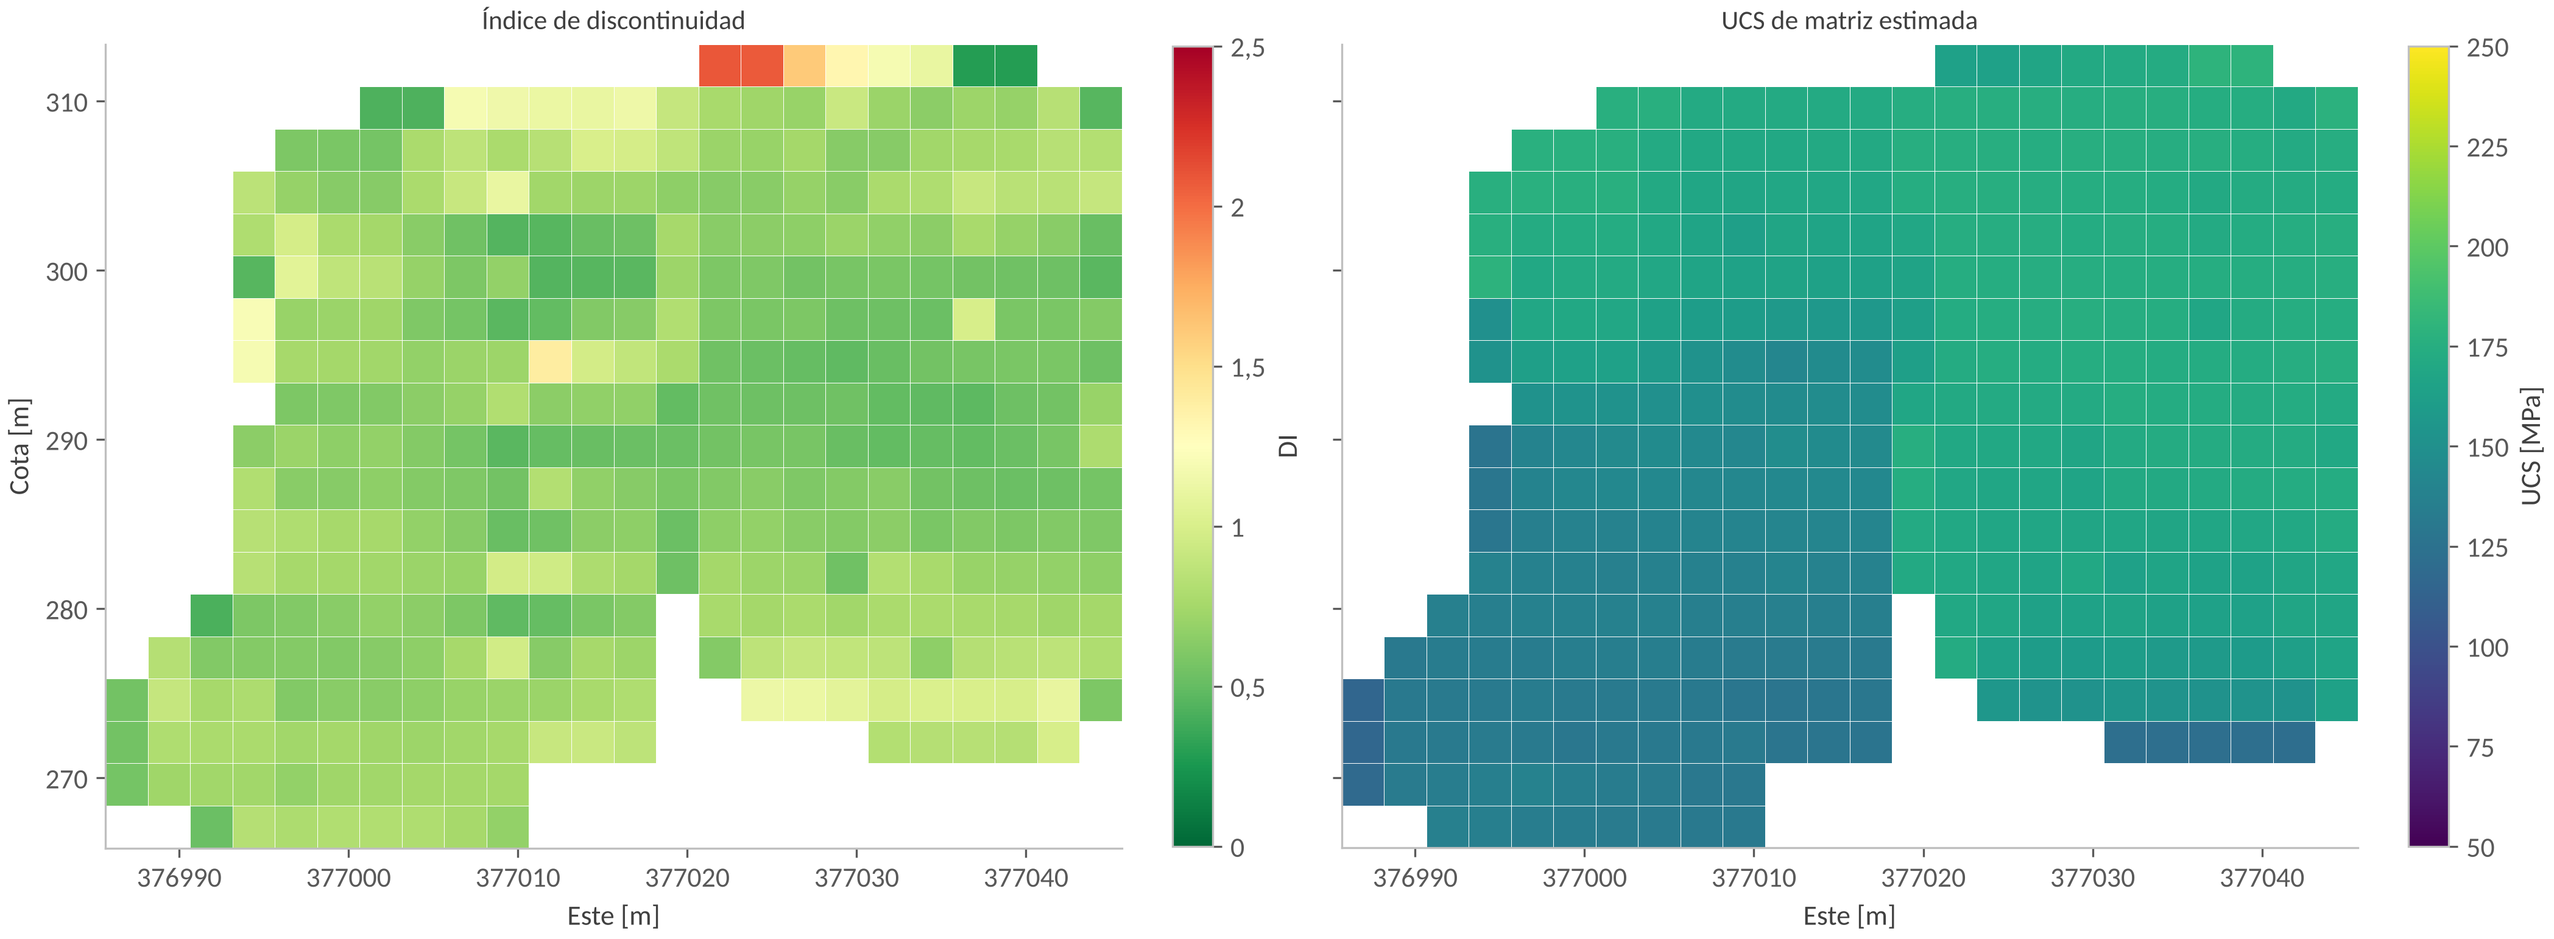
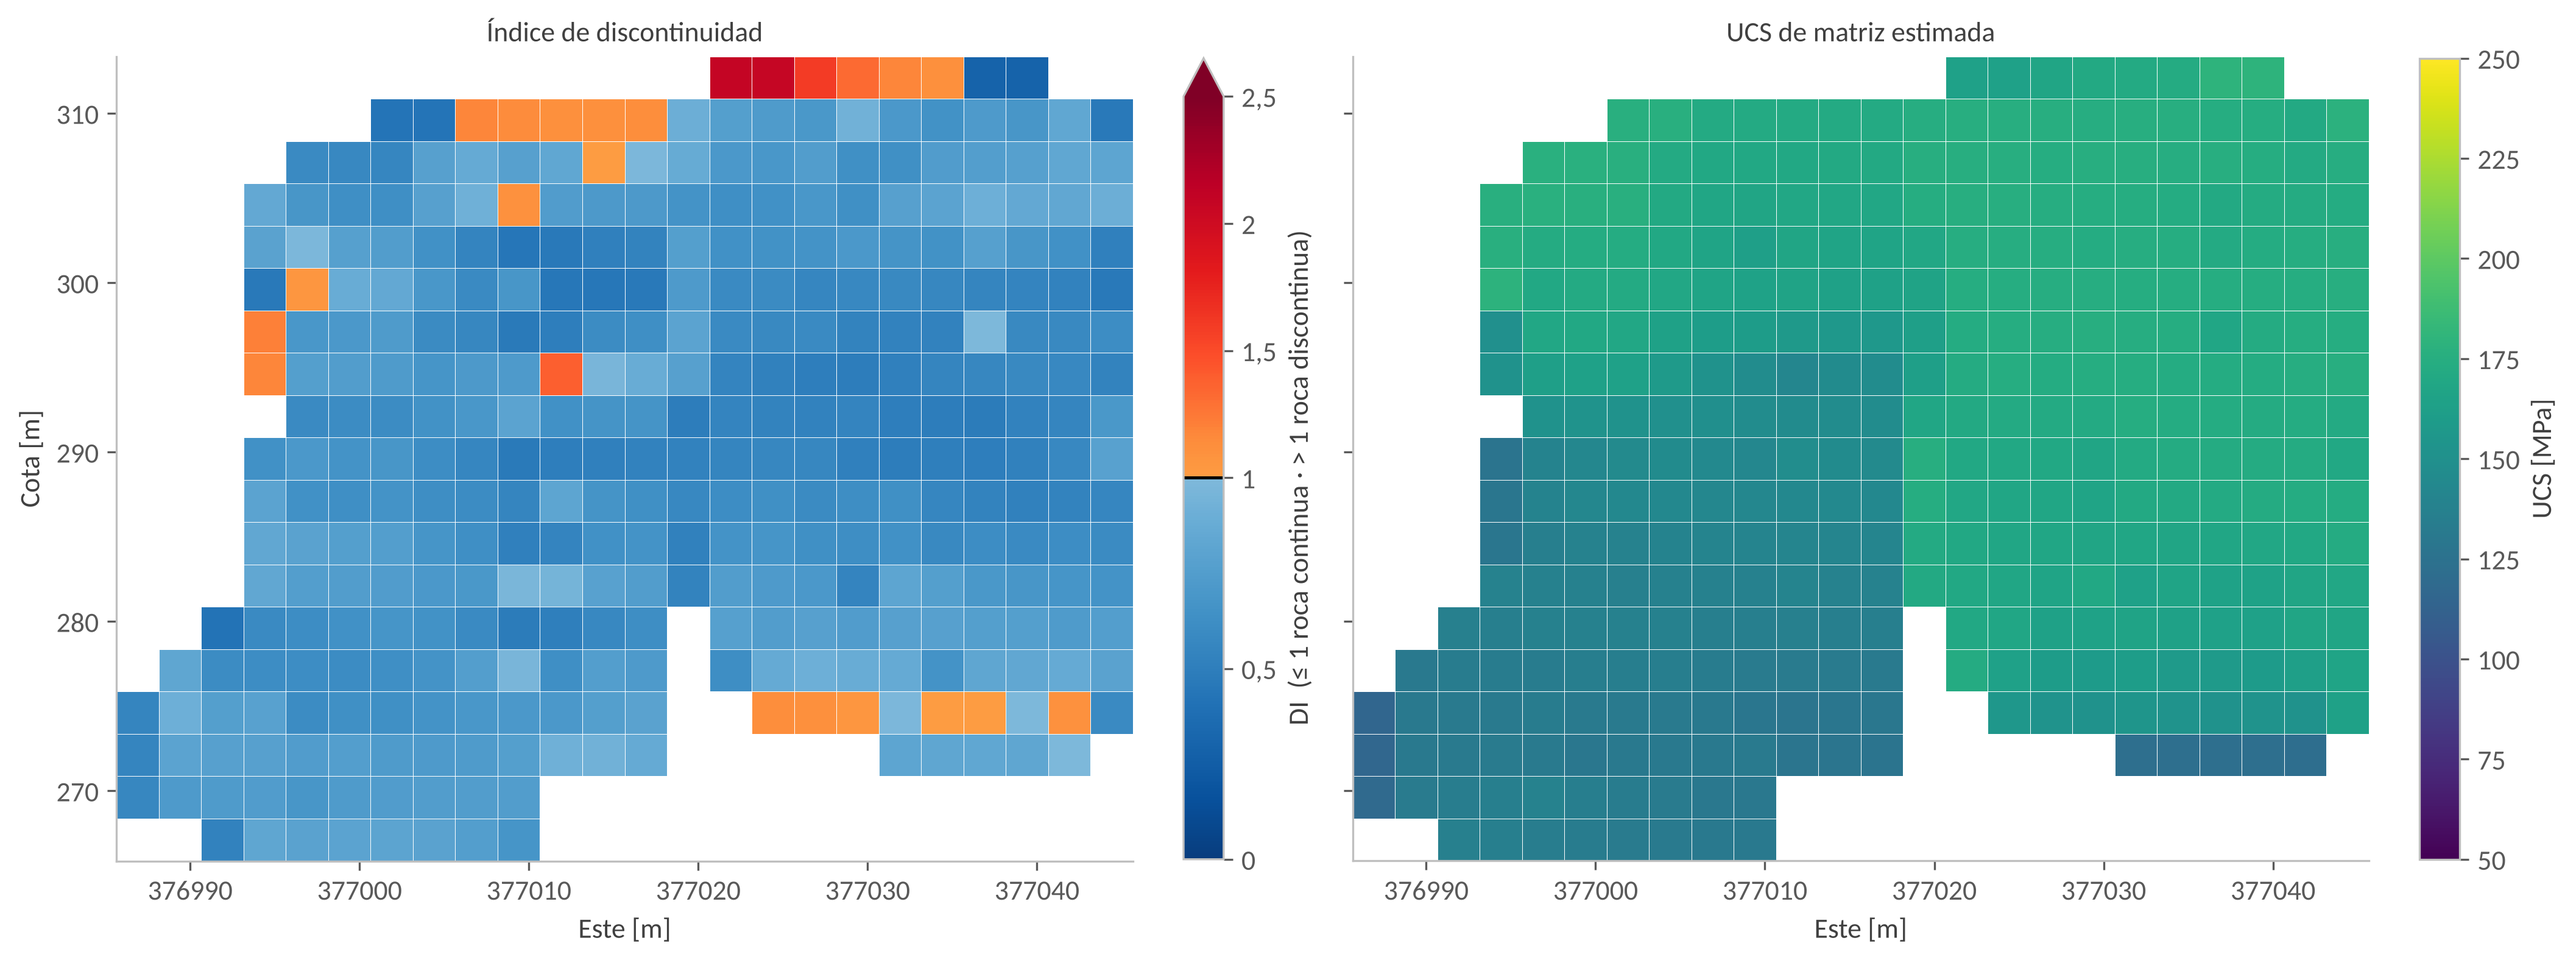
Figura 5.15: DI del modelo de bloques en dos clases de color (continua / discontinua)
Claude-Session: https://claude.ai/code/session_01MT9AkNnHr1e9AMWji6YncB

diff --git a/memoria_final/final/fig_seccion_bloques_di.py b/memoria_final/final/fig_seccion_bloques_di.py
@@ -1,0 +1,32 @@
+"""Sección vertical del modelo de bloques de PCC_0042 (Figura 5.15) con el DI
+en dos clases de color: azules para roca continua (DI ≤ 1) y naranjo a rojo
+para discontinua (DI > 1), con corte nítido en 1. La UCS queda igual.
+Uso: python3 fig_seccion_bloques_di.py final.json salida.png"""
+import sys, json
+import numpy as np, matplotlib; matplotlib.use("Agg")
+import matplotlib.pyplot as plt
+from matplotlib.colors import ListedColormap, TwoSlopeNorm
+from matplotlib.ticker import FuncFormatter
+plt.rcParams.update({"font.family": "Carlito", "font.size": 11, "axes.labelcolor": "#404040", "axes.edgecolor": "#BFBFBF",
+                     "axes.spines.top": False, "axes.spines.right": False, "xtick.color": "#595959", "ytick.color": "#595959",
+                     "figure.constrained_layout.use": True})
+R = json.load(open(sys.argv[1], encoding="utf-8")); B = R["bloques"]; s_ = B["seccion"]; lado = B["bloque_m"]
+x = np.array(s_["x"]); z = np.array(s_["z"])
+cmap_di = ListedColormap(np.vstack([plt.cm.Blues(np.linspace(0.95, 0.45, 128)), plt.cm.YlOrRd(np.linspace(0.45, 1.0, 128))]))
+coma = FuncFormatter(lambda v, _p=None: (f"{v:.6f}".rstrip("0").rstrip(".") or "0").replace(".", ","))
+fig, axs = plt.subplots(1, 2, figsize=(14, 5.6), sharey=True)
+for ax, var, cmap, norm, lab, tit in ((axs[0], "di", cmap_di, TwoSlopeNorm(vmin=0, vcenter=1, vmax=2.5), "DI  (≤ 1 roca continua · > 1 roca discontinua)", "Índice de discontinuidad"),
+                                      (axs[1], "ucs", "viridis", plt.Normalize(50, 250), "UCS [MPa]", "UCS de matriz estimada")):
+    vv = np.array([np.nan if v is None else v for v in s_[var]], float)
+    ix_ = np.round((x - x.min()) / lado).astype(int); iz_ = np.round((z - z.min()) / lado).astype(int)
+    G = np.full((iz_.max() + 1, ix_.max() + 1), np.nan); G[iz_, ix_] = vv
+    sc = ax.pcolormesh(x.min() - lado / 2 + lado * np.arange(ix_.max() + 2), z.min() - lado / 2 + lado * np.arange(iz_.max() + 2),
+                       np.ma.masked_invalid(G), cmap=cmap, norm=norm, edgecolors="white", linewidth=0.15)
+    ax.set_aspect("equal"); ax.set_xlabel("Este [m]"); ax.set_title(tit, fontsize=11, color="#404040")
+    cb = fig.colorbar(sc, ax=ax, shrink=0.8, label=lab, extend="max" if var == "di" else "neither")
+    cb.ax.yaxis.set_major_formatter(coma)
+    if var == "di":
+        cb.set_ticks([0, 0.5, 1, 1.5, 2, 2.5]); cb.ax.axhline(1.0, color="black", lw=1.2)
+    ax.xaxis.set_major_formatter(FuncFormatter(lambda v, _p=None: f"{v:.0f}")); ax.yaxis.set_major_formatter(coma)
+axs[0].set_ylabel("Cota [m]")
+fig.savefig(sys.argv[2], dpi=300, bbox_inches="tight", facecolor="white"); print("OK", sys.argv[2])
